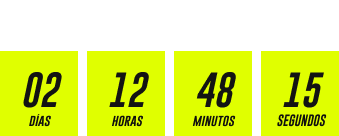
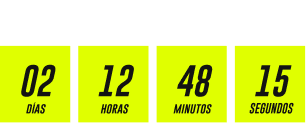
onePage terminado sin flechas en movimiento

diff --git a/index.html b/index.html
@@ -23,9 +23,8 @@
         <div class="navegacion">
             <!-- HEADER -->
             <header class="logo">
-                <!-- <h1><img src="" alt="Logo de coderconf"></h1> -->
                 <h1 class="eje">
-                    <img src="./images/coderconf-mobile.png" alt="logo">
+                    <img src="./images/coderconf-mobile.png" alt="logo de coderconf">
                 </h1>
             </header>
             <!-- NAVEGACION -->
@@ -54,23 +53,23 @@
         <!-- Anexo a onePage -->
         <div class="anexo">
             <a href="#" class="anexo-imageOne"><img src="./images/inscripciongratuita.png" alt="inscripcion gratuita"></a>
-            <!-- <a href="#" class="anexo-imageTwo"><img src="./images/cuentaregresiva.png" alt="cuenta regresiva"></a> -->
+            <a href="#" class="anexo-imageTwo"><img src="./images/cuentaregresiva.png" alt="cuenta regresiva"></a>
         </div>
     </section>
     <!-- Segunda página (Conferecia + logo astronauta) -->
-    <section class="twoPage">
+    <!-- <section class="twoPage">
         <div class="twoPage-imagen">
-            <!-- <img src="./images/flechasVioletas.png" alt="imagen flechas"> -->
+            <img src="./images/flechasVioletas.png" alt="imagen flechas">
             <img src="./images/imagenPageTwo-mobile.png" alt="imagen satelite" class="twoPage-imagen-logo">
-            <!-- <img src="./images/flechasVioletasTrans.png" alt="imagen flechas"> -->
+            <img src="./images/flechasVioletasTrans.png" alt="imagen flechas">
         </div>
         <div class="twoPage-texto">
             <h2 class="twoPage-texto-h2"><img src="./images/coderconfNegro.png" alt="logo coderconf"></h2>
             <p class="twoPage-texto-p">Reúne en un mismo evento, a expertos del mundo digital y reconocidos de las empresas mejor posicionadas en el mercado laboral.</p>
         </div>
-    </section>
+    </section> -->
     <!-- Tercera página (speaker + conferncia + logo) -->
-    <section class="threePage">
+    <!-- <section class="threePage">
         <div class="threePage-logo">
             <h2 class="threePage-logo-h2"><img src="./images/+15Violeta.png" alt="Logo +15"></h2>
             <h3 class="threePage-logo-h3">SPEAKERS RECONOCIDOS</h3>
@@ -84,7 +83,7 @@
         <div class="threePage-imagen">
             <img src="./images/autoEspacialMobile.png" class="threePage-imagen-img" alt="Imagen de auto espacial">
         </div>
-    </section>
+    </section> -->
     <!-- Cuarta página (Speakers + Invitado especial + invitados) -->
     <!-- <section class="fourPage" id="speakers">
         <div class="fourPage-divSpeaker">
@@ -219,7 +218,7 @@
             </div>
     </section> -->
     <!-- Sexta agenda (Inscripción) -->
-    <section class="sixPage" id="inscripcion">
+    <!-- <section class="sixPage" id="inscripcion">
         <div class="sixPage-div">
             <h2 class="sixPage-div-h2">INSCRIPCIÓN</h2>
             <h3 class="sixPage-div-h3">¡Completa tus datos!</h3>
@@ -244,9 +243,9 @@
                 <input class="sixPage-form-btn" type="submit" value="Solicitar Inscripción">
             </div>
         </form>
-    </section>
+    </section> -->
     <!-- Séptima página (Sponsors) -->
-    <section class="sevenPage" id="sponsors">
+    <!-- <section class="sevenPage" id="sponsors">
         <div class="sevenPage-sponsors">
             <h2 class="sevenPage-sponsors-h2">SPONSORS</h2>
         </div>
@@ -255,9 +254,9 @@
             <div><img src="./images/Logo-Google.png" alt="Logo de google"></div>
             <div><img src="./images/Logo-TiendaNube.png" alt="Tienda de nube"></div>
         </div>
-    </section>
+    </section> -->
     <!-- Octava página (Form para ser sponsor) -->
-    <section class="eightpage">
+    <!-- <section class="eightpage">
         <div class="eightpage-div-title">
             <h2 class="eightpage-div-title-h2">¿TE INTERESA SER SPONSOR?</h2>
             <h3 class="eightpage-div-title-h3">¡Emprendamos el mismo vuelo!</h3>
@@ -272,9 +271,9 @@
                 </div>
             </form>
         </div>
-    </section>
+    </section> -->
     <!-- Footer -->
-    <footer class="footerPage">
+    <!-- <footer class="footerPage">
         <div class="footerPage-coderconf">
             <h2 class="footerPage-h2"><img src="./images/coderconf-mobile.png" alt="Logo Coderconf"></h2>
             <div class="footerPage-div">
@@ -303,7 +302,7 @@
         <div class="footerPage-copyright">
             <h2 class="footerPage-copyright-h2"><i class="far fa-copyright"></i> - Copyright 2021 - Todos los derechos reservados</h2>
         </div>
-    </footer>
+    </footer> -->
     <script src="https://cdn.jsdelivr.net/npm/@popperjs/core@2.9.3/dist/umd/popper.min.js" integrity="sha384-eMNCOe7tC1doHpGoWe/6oMVemdAVTMs2xqW4mwXrXsW0L84Iytr2wi5v2QjrP/xp" crossorigin="anonymous"></script>
     <script src="https://cdn.jsdelivr.net/npm/bootstrap@5.1.0/dist/js/bootstrap.min.js" integrity="sha384-cn7l7gDp0eyniUwwAZgrzD06kc/tftFf19TOAs2zVinnD/C7E91j9yyk5//jjpt/" crossorigin="anonymous"></script>
 </body>

diff --git a/css/style.css b/css/style.css
@@ -192,12 +192,12 @@ table {
 .onePage {
   grid-area: onePage;
   width: 100%;
-  height: 130vh;
+  height: 110vh;
   padding: 0px;
   background-image: url(../images/prueba1.png);
   background-position: center;
   background-repeat: no-repeat;
-  background-size: cover;
+  /* background-size: cover; */
   /* header y navegación */
   /* Datos del main */ }
   .onePage .navegacion {
@@ -222,8 +222,7 @@ table {
         display: block;
         width: 50px;
         height: 50px;
-        padding: 10px;
-        /* position: relative; */ }
+        padding: 10px 10px 0px 10px; }
       .onePage .navegacion .navbar .btn-menu:hover {
         display: block;
         /* cursor: pointer;
@@ -252,12 +251,16 @@ table {
   .onePage .pageOne-article {
     width: 100%;
     height: 65%;
-    /* margin: 10px 0px; */
-    /* padding: 0px 15px; */
     display: flex;
     flex-direction: column;
     justify-content: flex-end;
-    align-items: center; }
+    align-items: center;
+    /* .pageOne-title-h3 {
+            font-size: 16px;
+            color: white;
+            line-height: 24px;
+            text-align: center;
+        } */ }
     .onePage .pageOne-article .pageOne-title {
       font-family: gobold-bold;
       text-transform: uppercase;
@@ -265,14 +268,9 @@ table {
       color: white;
       line-height: 40px;
       text-align: center; }
-    .onePage .pageOne-article .pageOne-title-h2 {
+    .onePage .pageOne-article .pageOne-title-h3 {
       font-family: gobold-regular;
       text-transform: uppercase;
-      font-size: 24px;
-      color: white;
-      line-height: 24px;
-      text-align: center; }
-    .onePage .pageOne-article .pageOne-title-h3 {
       font-size: 16px;
       color: white;
       line-height: 24px;
@@ -287,15 +285,15 @@ table {
   .onePage .anexo {
     width: 100%;
     height: 30%;
-    padding: 5px;
-    background-color: #151515;
+    margin: 0px;
+    padding: 5px 0px;
     display: flex;
     flex-direction: column;
     align-items: center; }
     .onePage .anexo .anexo-imageOne {
-      padding: 0px 10px; }
+      padding: 0px; }
     .onePage .anexo .anexo-imageTwo {
-      padding: 10px; }
+      padding: 0px; }
 
 .twoPage {
   grid-area: twoPage;

diff --git a/scss/_onePage.scss b/scss/_onePage.scss
@@ -3,12 +3,12 @@
 .onePage {
     grid-area: onePage;
     width: 100%;
-    height: 130vh;
+    height: 110vh;
     padding: 0px;
     background-image: url(../images/prueba1.png);
     background-position: center;
     background-repeat: no-repeat;
-    background-size: cover;
+    /* background-size: cover; */
     /* header y navegación */
     .navegacion {
         display: flex;
@@ -34,8 +34,7 @@
                 display: block;
                 width: 50px;
                 height: 50px;
-                padding: 10px;
-                /* position: relative; */
+                padding: 10px 10px 0px 10px;
             }
             .btn-menu:hover {
                 display: block;
@@ -75,8 +74,6 @@
     .pageOne-article {
         width: 100%;
         height: 65%;
-        /* margin: 10px 0px; */
-        /* padding: 0px 15px; */
         display: flex;
         flex-direction: column;
         justify-content: flex-end;
@@ -89,20 +86,20 @@
             line-height: 40px;
             text-align: center;
         }
-        .pageOne-title-h2 {
+        .pageOne-title-h3 {
             font-family: gobold-regular;
             text-transform: uppercase;
-            font-size: 24px;
-            color: white;
-            line-height: 24px;
-            text-align: center;
-        }
-        .pageOne-title-h3 {
             font-size: 16px;
             color: white;
             line-height: 24px;
             text-align: center;
         }
+        /* .pageOne-title-h3 {
+            font-size: 16px;
+            color: white;
+            line-height: 24px;
+            text-align: center;
+        } */
         .pageOne-images {
             display: flex;
             flex-direction: column;
@@ -116,16 +113,16 @@
     .anexo {
         width: 100%;
         height: 30%;
-        padding: 5px;
-        background-color: #151515;
+        margin: 0px;
+        padding: 5px 0px;
         display: flex;
         flex-direction: column;
         align-items: center;
         .anexo-imageOne {
-            padding: 0px 10px;
+            padding: 0px;
         }
         .anexo-imageTwo {
-            padding: 10px;
+            padding: 0px;
         }
     }
 }
